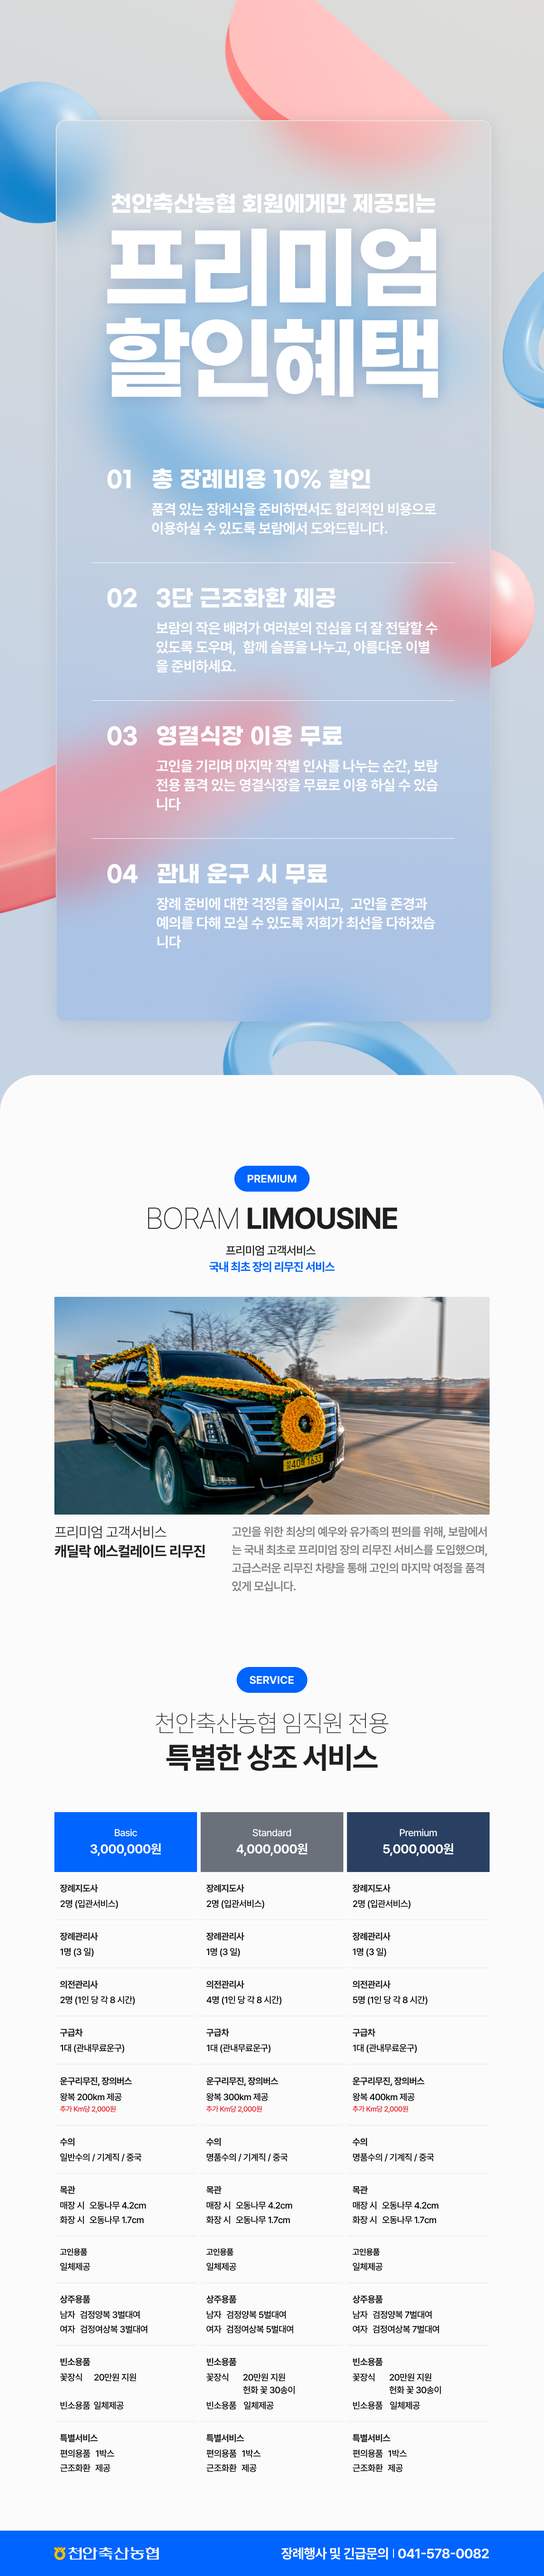
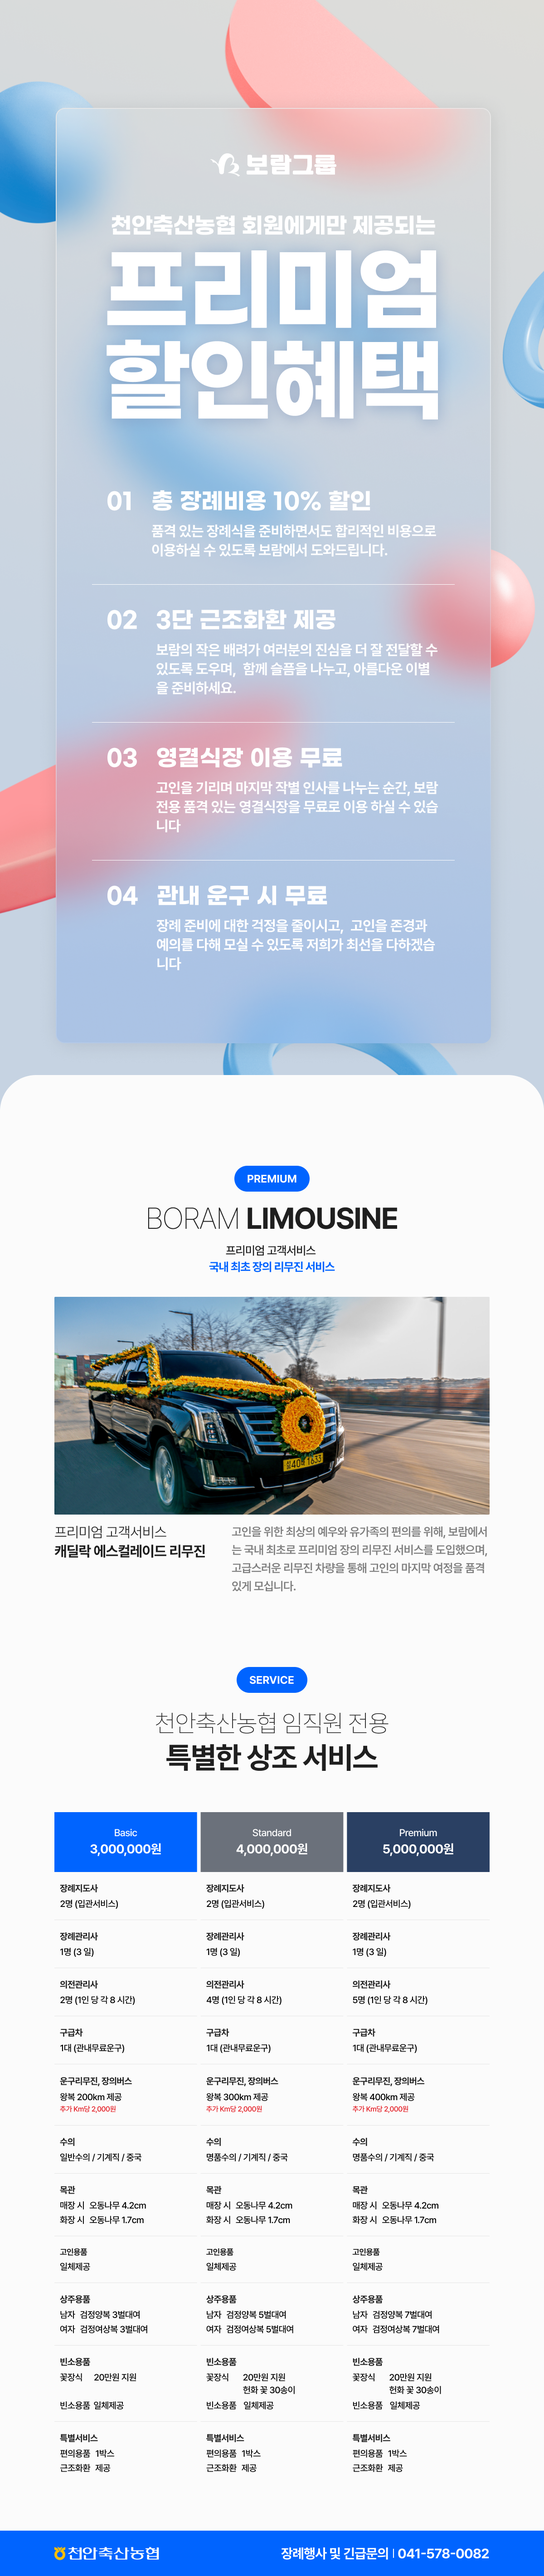
7/19 최종 푸시

Changed region(s): [[0.1233, 0.0312, 0.8942, 0.4052]]

diff --git a/css/style.scss b/css/style.scss
@@ -150,7 +150,7 @@
   border-top-left-radius: 24px;
   border-top-right-radius: 24px;
   position: relative;
-  margin-top: -20vh;
+  margin-top: -18vh;
   #inner {
     max-width: 1024px;
   }
@@ -159,13 +159,16 @@
     ul {
       display: flex;
       flex-wrap: wrap;
-      gap: 12px;
+      gap: 6px;
       li {
-        width: calc(100% / 2 - 6px);
+        display: flex;
+        flex-direction: column;
+        align-items: center;
+        width: calc(100% / 2 - 3px);
         background-color: var(--bg-color-white);
         border: 1px solid var(--border-color);
         border-radius: 12px;
-        padding: 12px;
+        padding: 32px;
         color: var(--color);
         box-shadow: 0 1px 2px rgba(0, 0, 0, 0.01), 0 2px 4px rgba(0, 0, 0, 0.01), 0 4px 8px rgba(0, 0, 0, 0.01),
           0 8px 16px rgba(0, 0, 0, 0.01), 0 16px 32px rgba(0, 0, 0, 0.01), 0 32px 64px rgba(0, 0, 0, 0.01);
@@ -174,14 +177,16 @@
           font-weight: 900;
           line-height: 26px;
           letter-spacing: -0.25px;
-          padding: 12px;
           display: block;
+          white-space: nowrap;
         }
         p {
           color: var(--color-gray);
           font-size: 14px;
           line-height: 20px;
           font-weight: 500;
+          margin-top: 12px;
+          width: 120px;
         }
       }
     }
@@ -190,7 +195,8 @@
     padding-top: 48px;
     .keyword_bage {
       display: inline-block;
-      padding: 12px 18px;
+      line-height: 38px;
+      padding: 0 16px;
       font-size: 16px;
       border-radius: 50px;
       margin-bottom: 14px;

diff --git a/css/style.css b/css/style.css
@@ -152,7 +152,7 @@
   border-top-left-radius: 24px;
   border-top-right-radius: 24px;
   position: relative;
-  margin-top: -20vh;
+  margin-top: -18vh;
 }
 .contaniner #inner {
   max-width: 1024px;
@@ -163,14 +163,17 @@
 .contaniner .point_list ul {
   display: flex;
   flex-wrap: wrap;
-  gap: 12px;
+  gap: 6px;
 }
 .contaniner .point_list ul li {
-  width: calc(50% - 6px);
+  display: flex;
+  flex-direction: column;
+  align-items: center;
+  width: calc(50% - 3px);
   background-color: var(--bg-color-white);
   border: 1px solid var(--border-color);
   border-radius: 12px;
-  padding: 12px;
+  padding: 32px;
   color: var(--color);
   box-shadow: 0 1px 2px rgba(0, 0, 0, 0.01), 0 2px 4px rgba(0, 0, 0, 0.01), 0 4px 8px rgba(0, 0, 0, 0.01), 0 8px 16px rgba(0, 0, 0, 0.01), 0 16px 32px rgba(0, 0, 0, 0.01), 0 32px 64px rgba(0, 0, 0, 0.01);
 }
@@ -179,21 +182,24 @@
   font-weight: 900;
   line-height: 26px;
   letter-spacing: -0.25px;
-  padding: 12px;
   display: block;
+  white-space: nowrap;
 }
 .contaniner .point_list ul li p {
   color: var(--color-gray);
   font-size: 14px;
   line-height: 20px;
   font-weight: 500;
+  margin-top: 12px;
+  width: 120px;
 }
 .contaniner .limousine {
   padding-top: 48px;
 }
 .contaniner .limousine .keyword_bage {
   display: inline-block;
-  padding: 12px 18px;
+  line-height: 38px;
+  padding: 0 16px;
   font-size: 16px;
   border-radius: 50px;
   margin-bottom: 14px;
